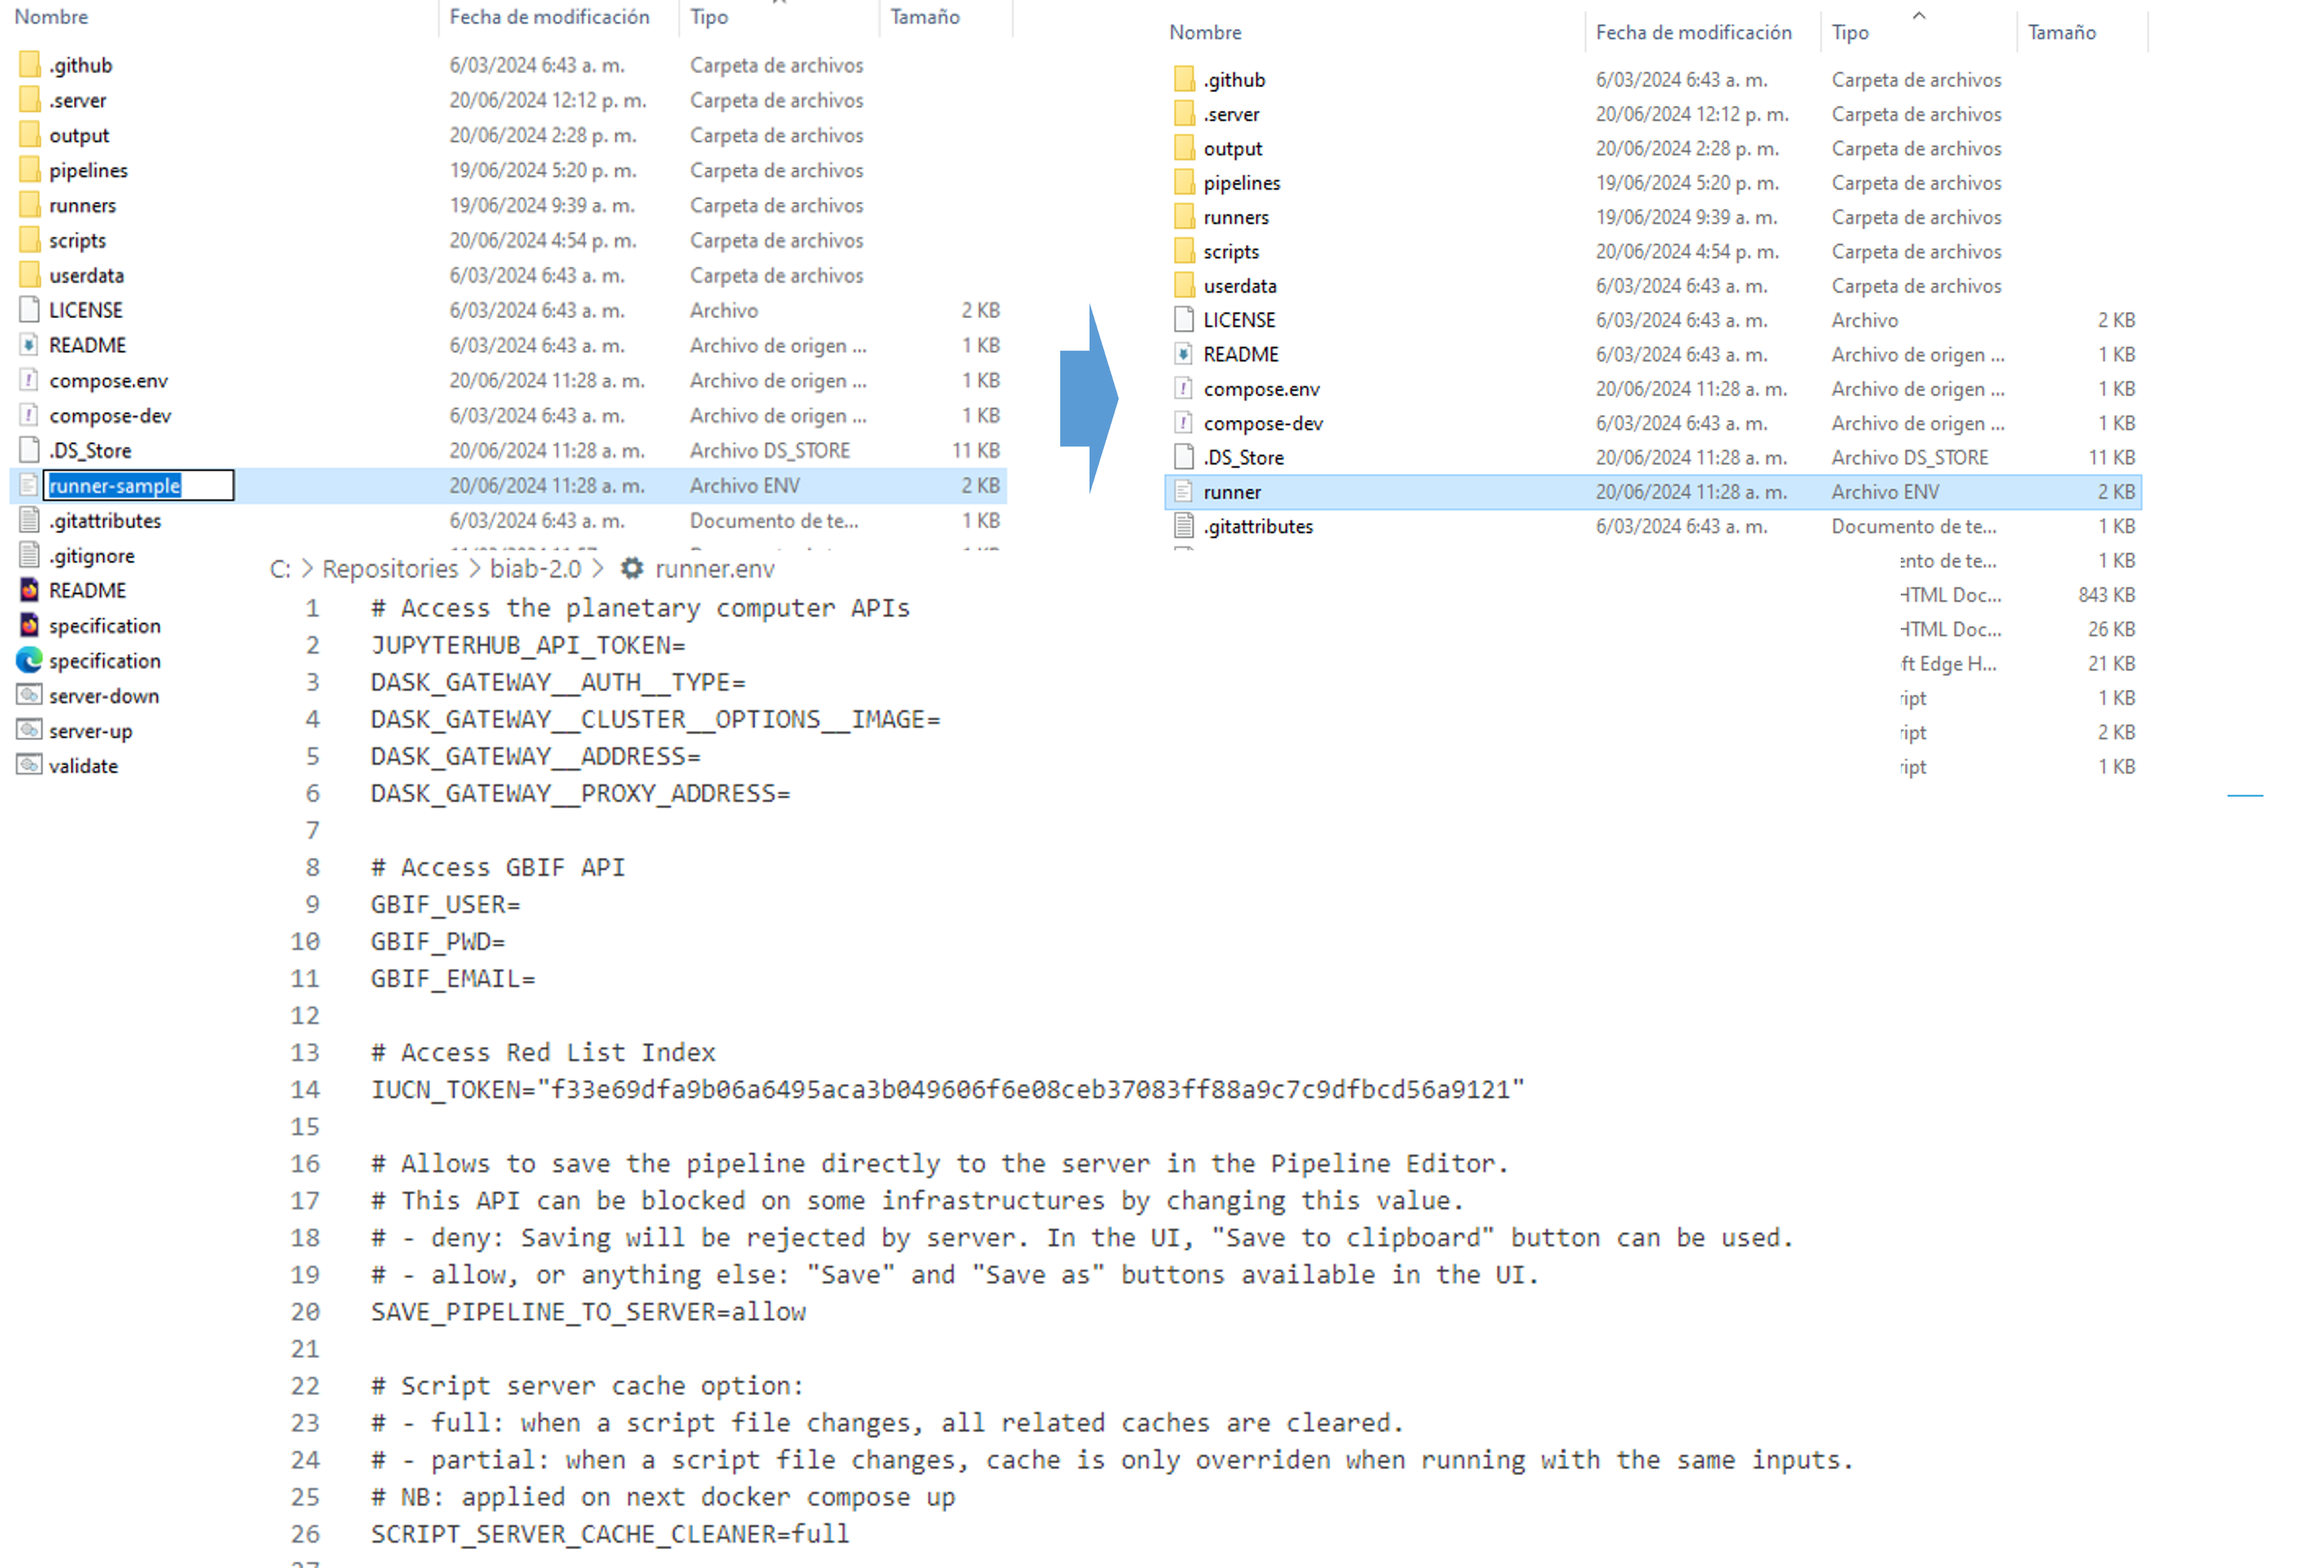
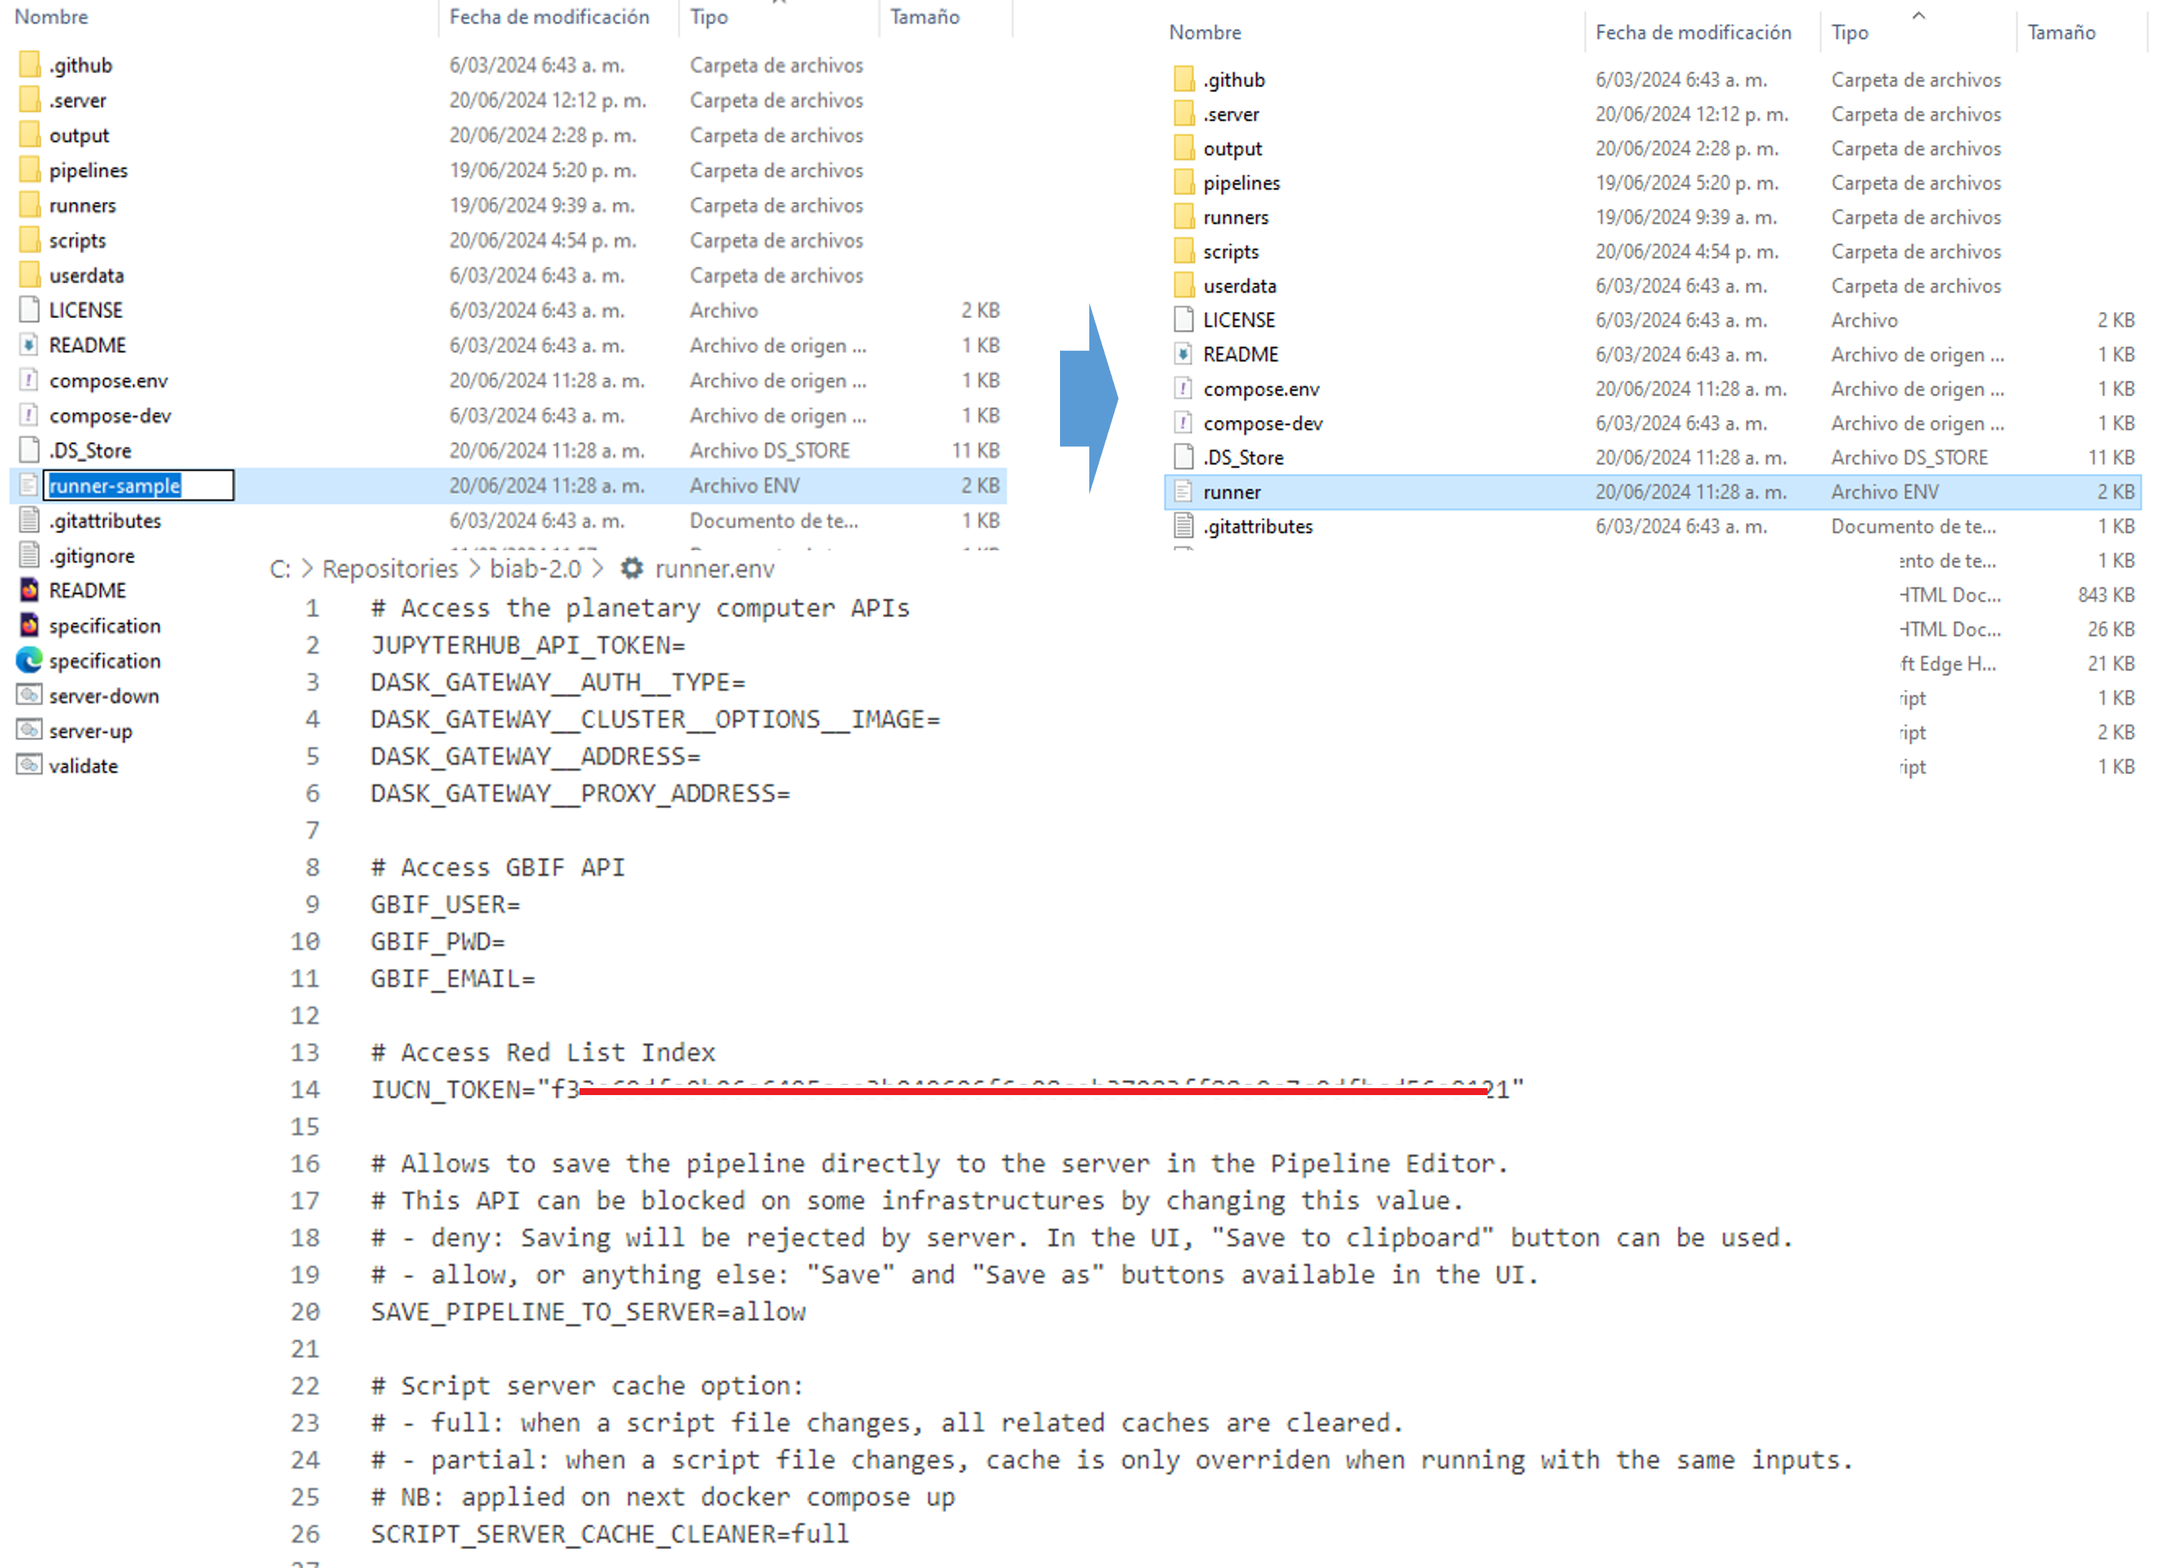
Correct token image

diff --git a/tutorials/backend_manual/Create_SimpleScript/README.md b/tutorials/backend_manual/Create_SimpleScript/README.md
@@ -36,7 +36,8 @@ basadas en el procesamiento realizado.
       - [Establecer Entorno de Trabajo](#establecer-entorno-de-trabajo)
     - [Ejecucion del código](#ejecucion-del-código)
     - [Exportar resultados](#exportar-resultados)
-    - [Probar y Validar el Script](#probar-y-validar-el-script)
+  - [Probar y Validar el Script](#probar-y-validar-el-script)
+
 
 ## Componentes del script
 
@@ -55,9 +56,11 @@ código y un archivo en formato `YML` asociado.
 Estos componentes deben estar presentes en la carpeta `~/scripts` del
 repositorio para que se visualicen en Bon in a Box. Ambos archivos deben
 estar alojados en la misma carpeta para facilitar su lectura y conexión.
-Además, se recomienda que en esta carpeta conjunta se incluya una
-subcarpeta input con datos por defecto, lo cual facilitará su prueba y
+Además, se recomienda que en esta carpeta conjunta se incluya ademas una
+subcarpeta `input` con datos por defecto, lo cual facilitará su prueba y
 ejecución, sirviendo como guía para los usuarios.
+
+![](README_figures/folderscript.png)
 
 ## Archivos `YML`
 
@@ -356,7 +359,7 @@ una visión continua del estado de la ejecución.
 
 ![](README_figures/result_singlescript.png)
 
-#### Probar y Validar el Script
+### Probar y Validar el Script
 
 Un script bien estructurado y documentado no debería generar errores. En
 general, los errores suelen surgir debido a problemas en los datos de
